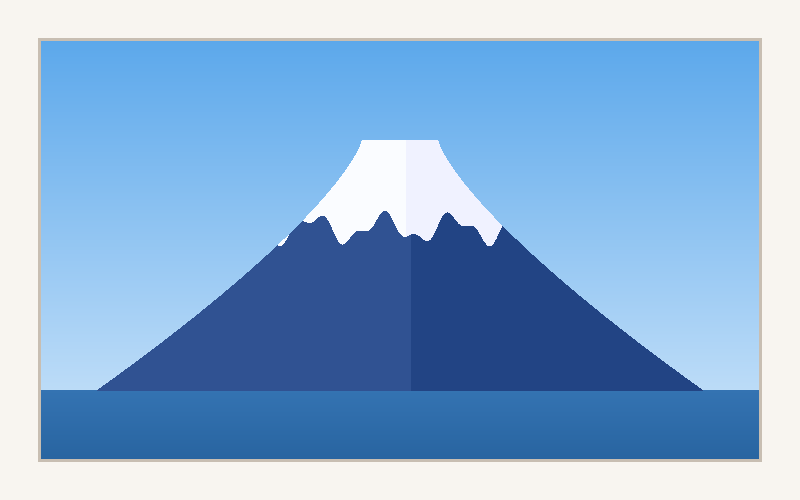
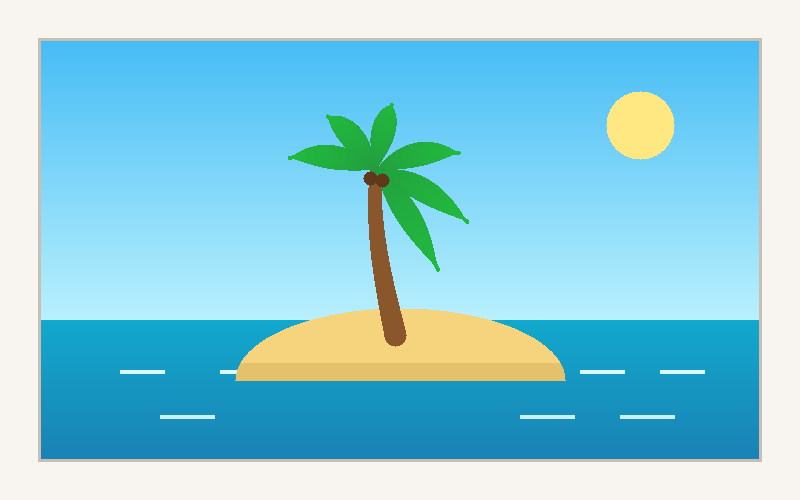
Switch entry to desert island (🏝) for unmistakable dream vacation postcard

diff --git a/main.ts b/main.ts
@@ -2,7 +2,7 @@ import { mkdirSync, writeFileSync } from "node:fs";
 
 const OUTPUT_DIR = "/output";
 const OUTPUT_FILE = `${OUTPUT_DIR}/entry.txt`;
-const ENTRY = "🗻";
+const ENTRY = "🏝";
 
 mkdirSync(OUTPUT_DIR, { recursive: true });
 writeFileSync(OUTPUT_FILE, ENTRY, "utf8");

diff --git a/README.md b/README.md
@@ -6,4 +6,4 @@
 
 Entry for [One Emoji, One Dream Vacation](https://make.fun/bounty/u-grand-elephant-19-one-emoji-one-dream-vacation-62879a35).
 
-Writes a single dream-vacation emoji (`🗻`) to `/output/entry.txt`.
+Writes a single dream-vacation emoji (`🏝`) to `/output/entry.txt`.
